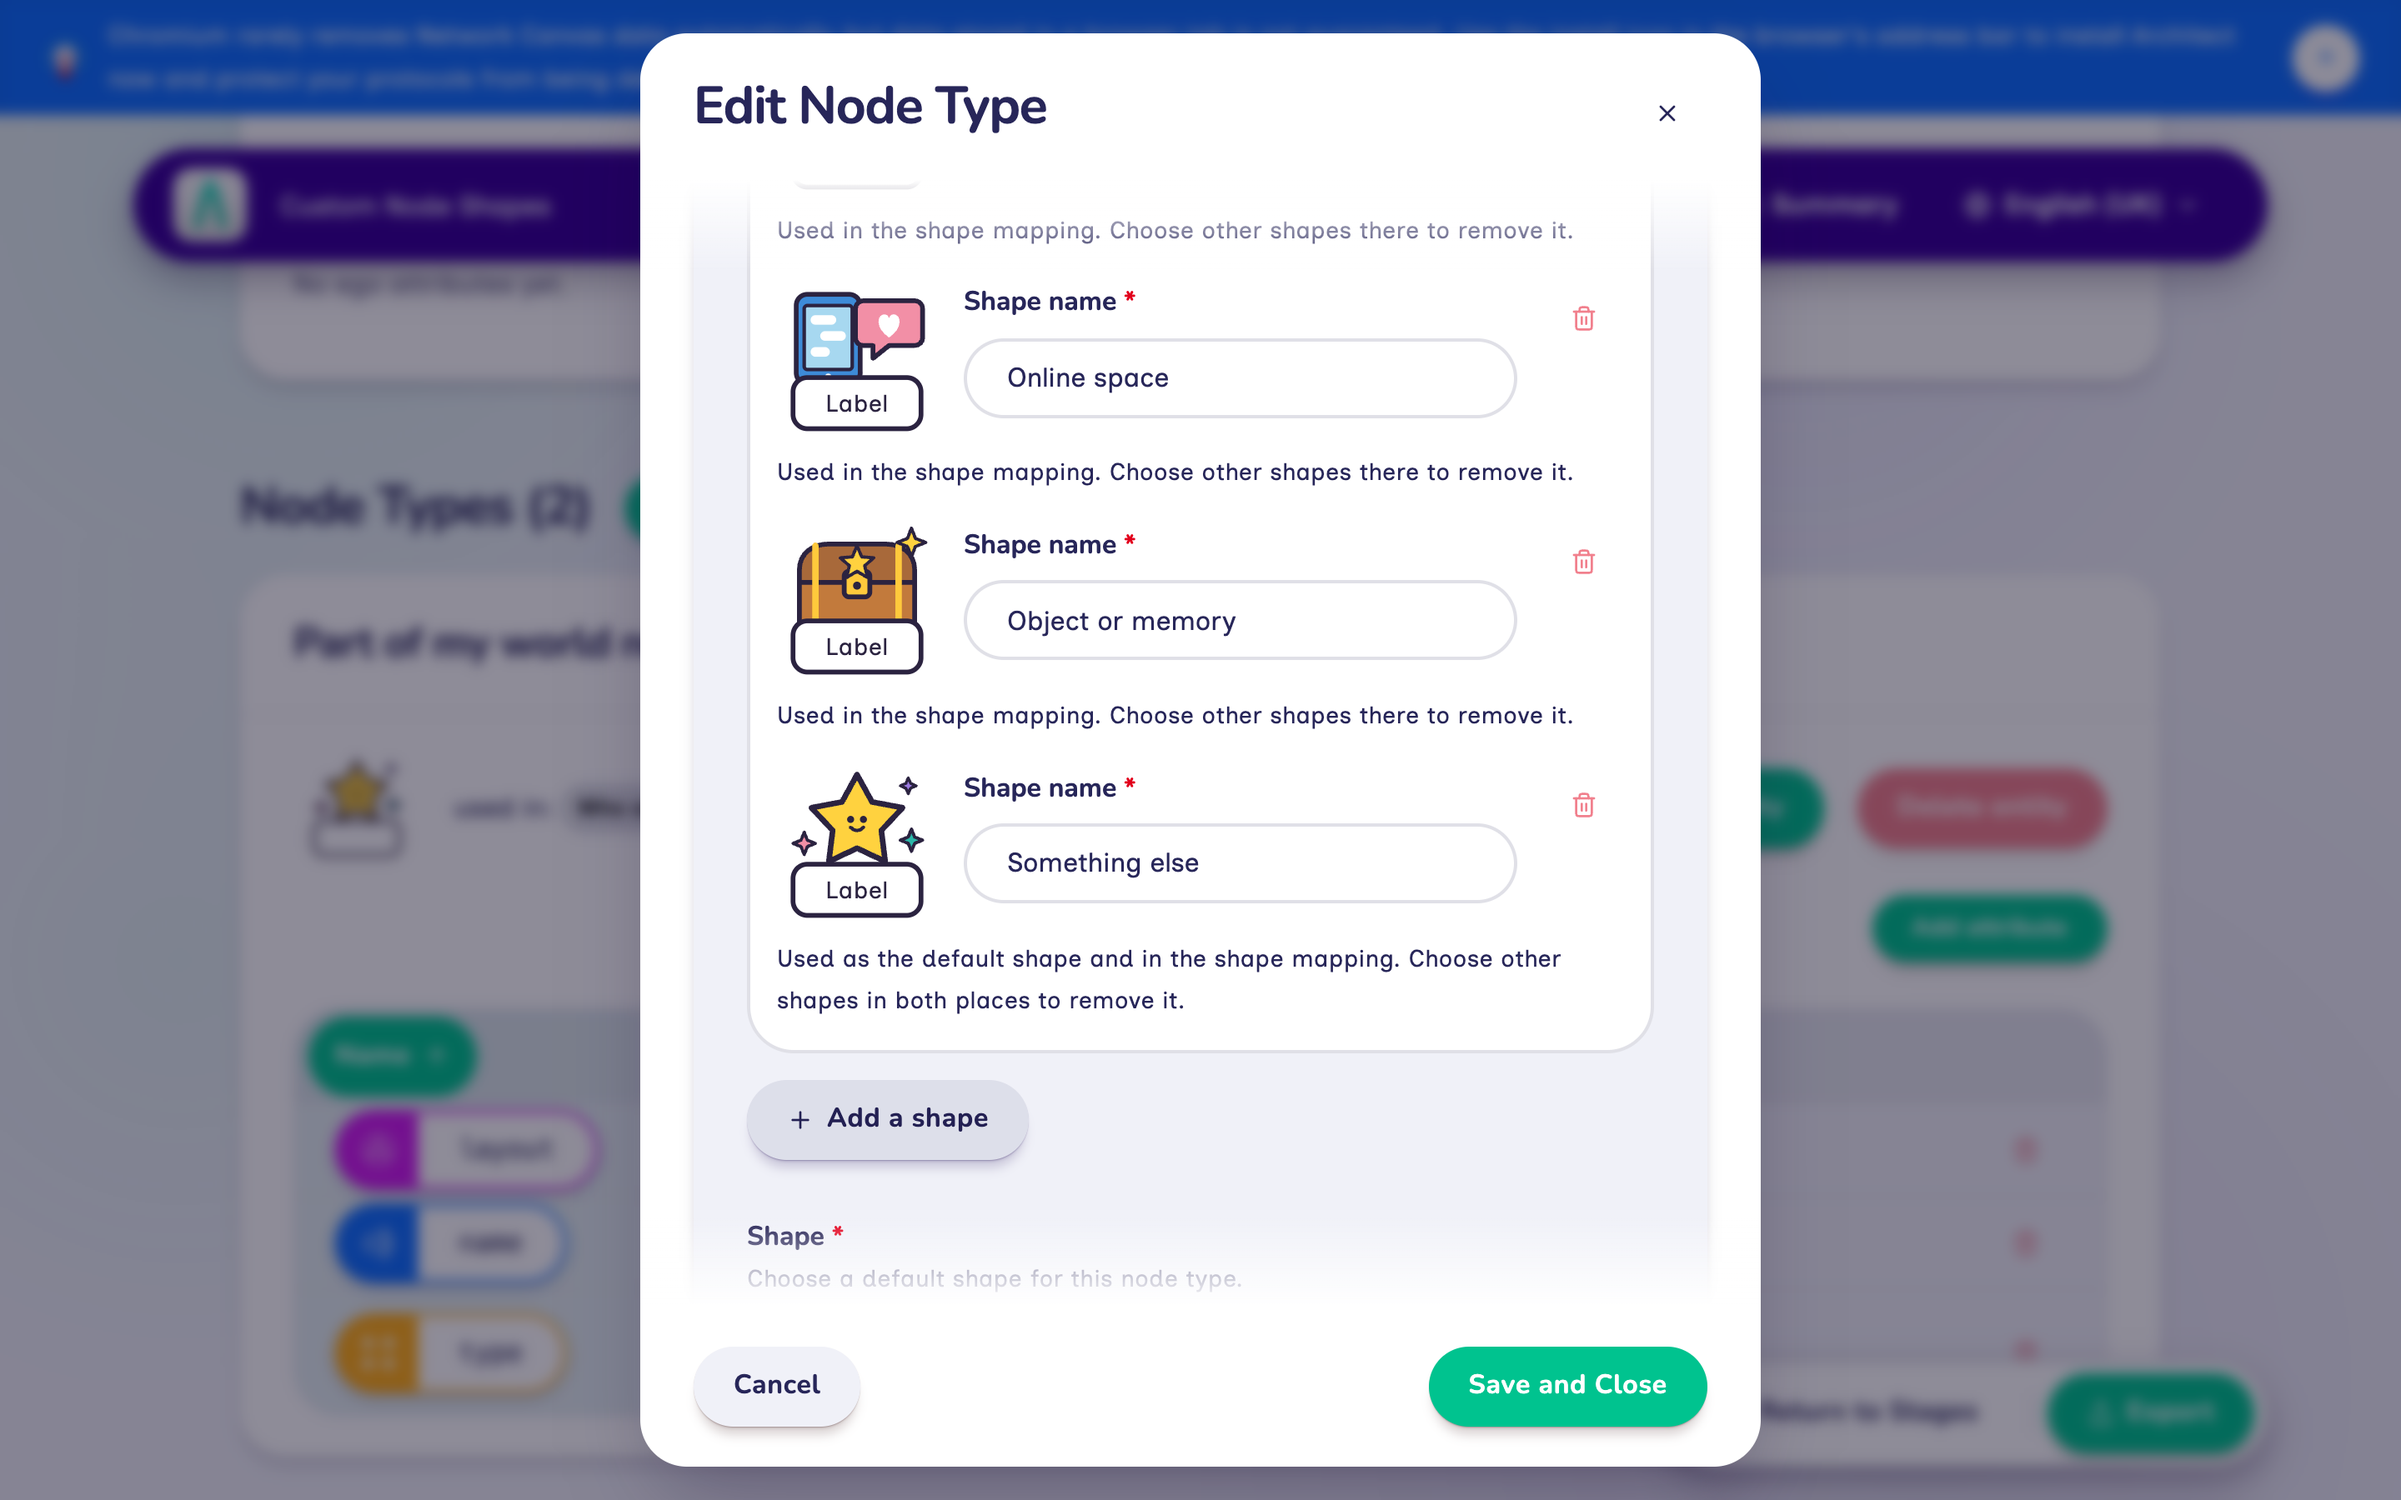
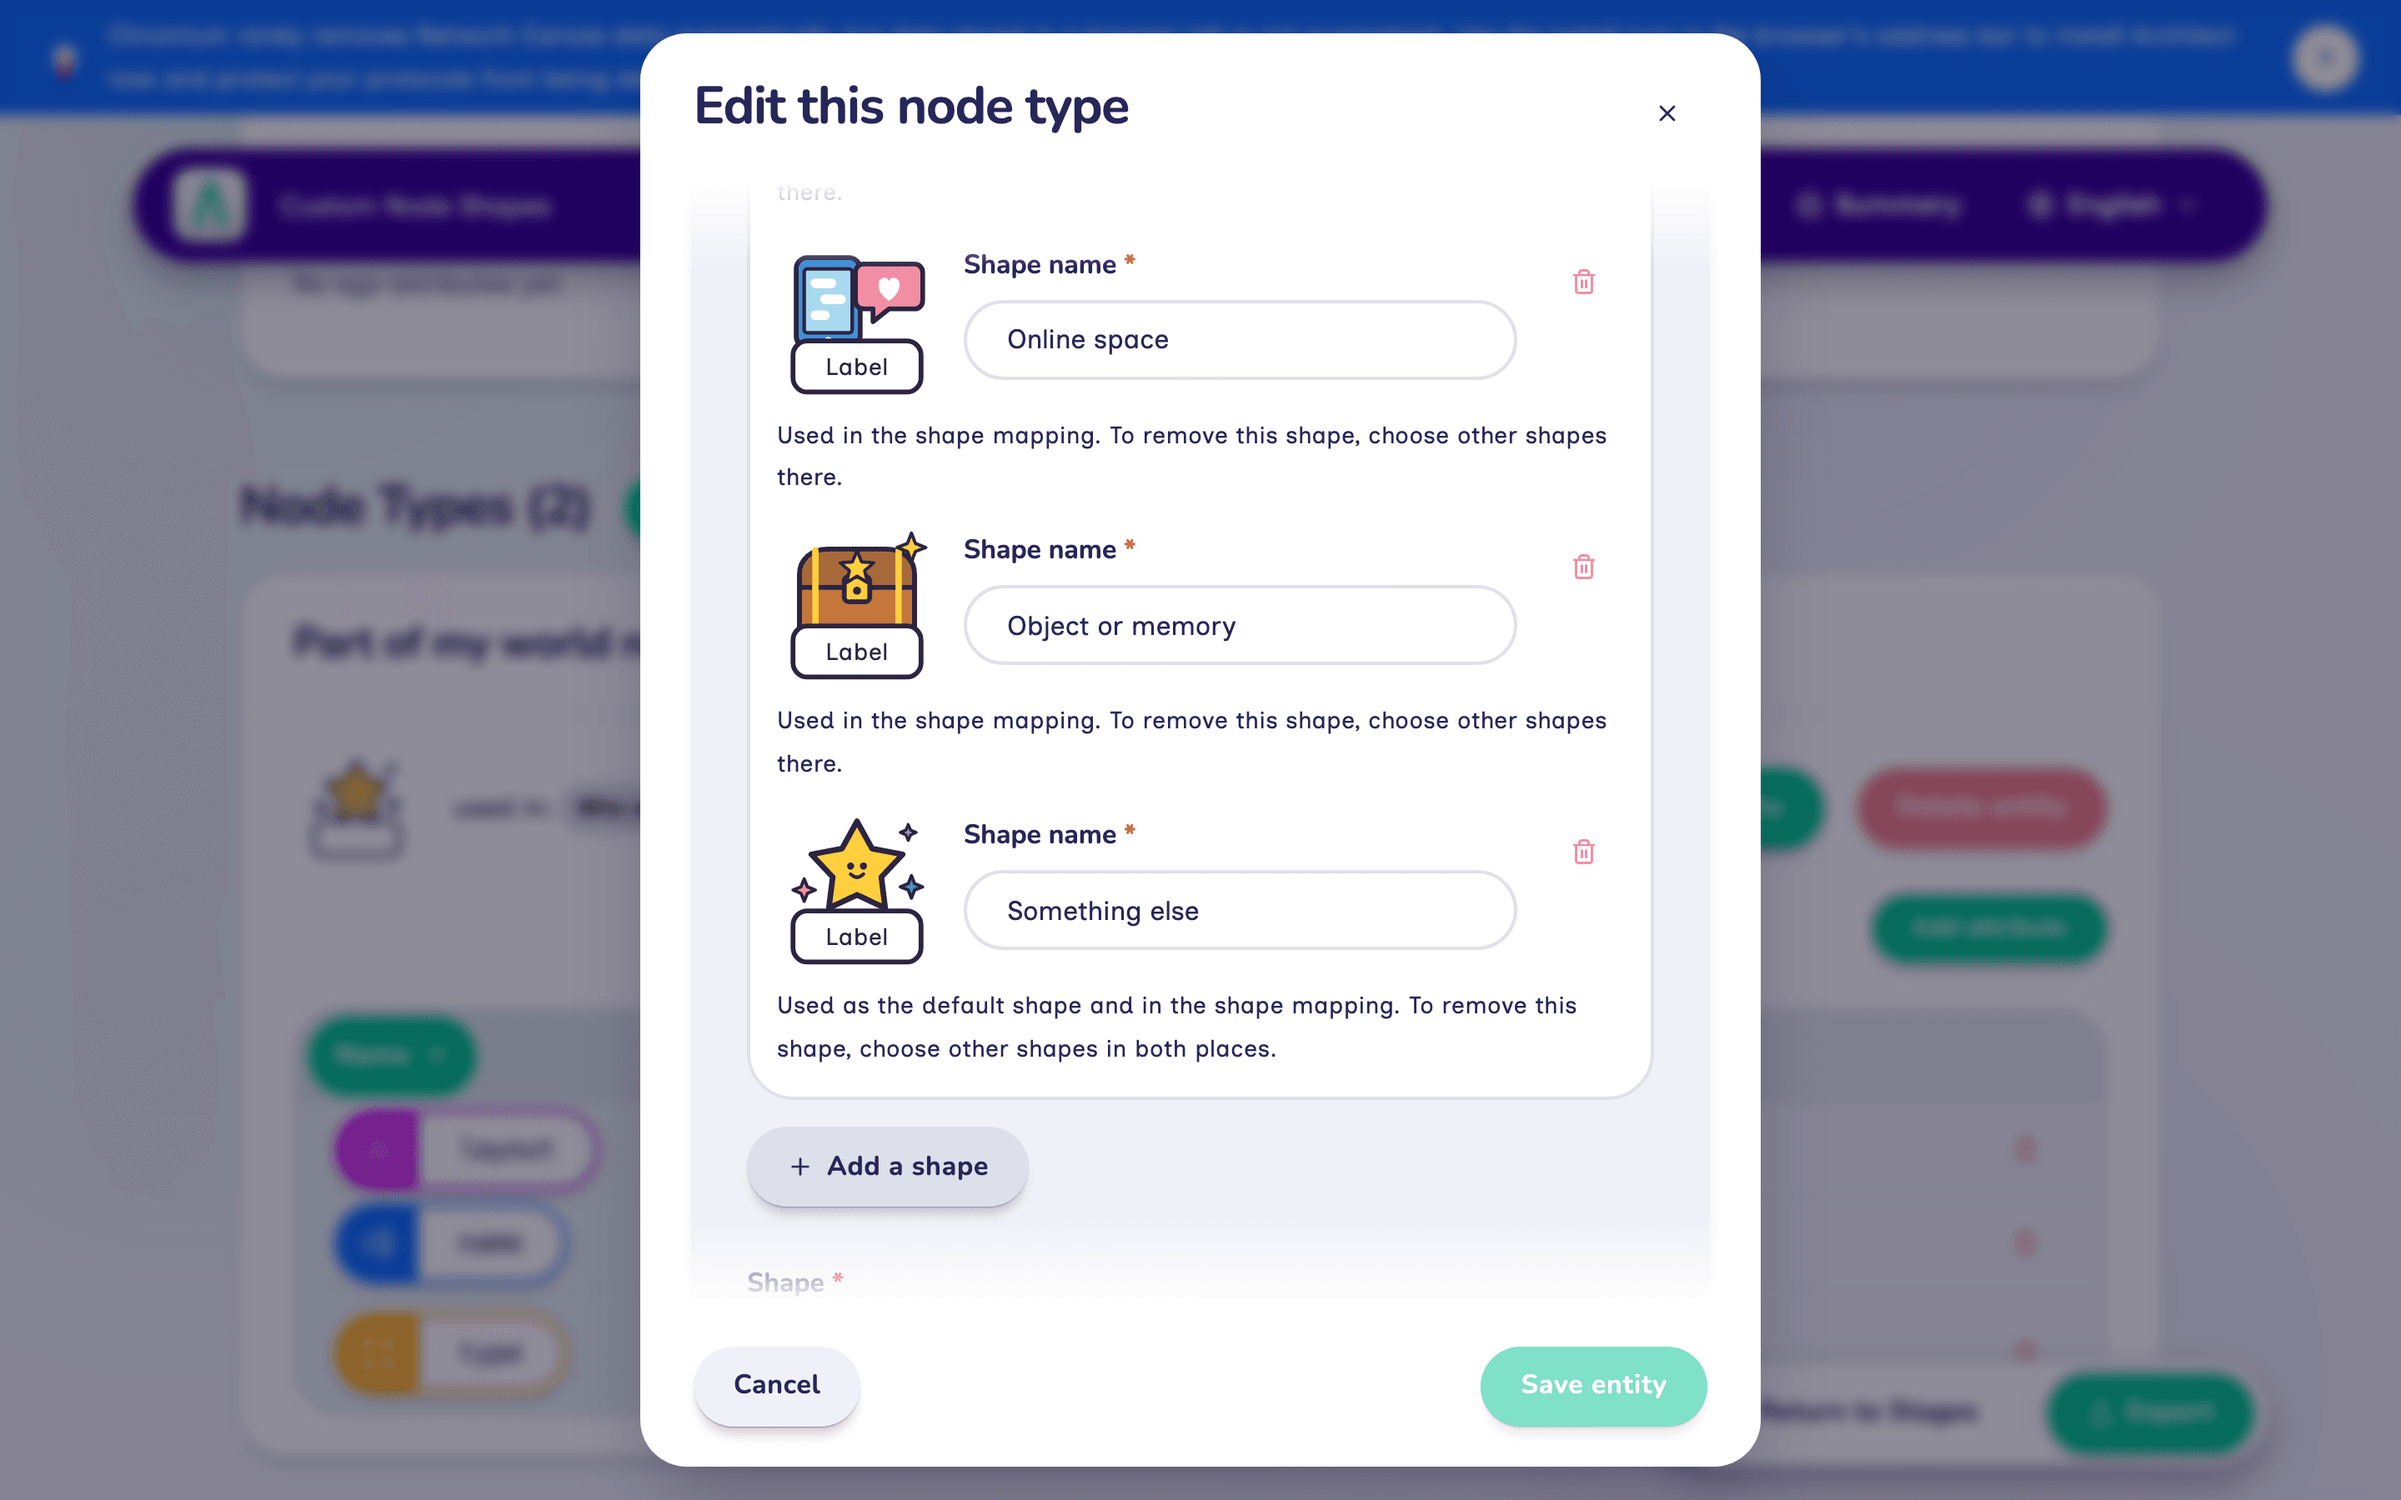
docs: recapture the node type editor screenshots from the shared editor

diff --git a/apps/documentation/SCREENSHOTS_TO_REGENERATE.md b/apps/documentation/SCREENSHOTS_TO_REGENERATE.md
@@ -311,15 +311,13 @@ Sources: `docs/collect-data/fresco/guide.en.mdx` and `docs/collect-data/fresco/g
 ## Custom node shapes (schema 9)
 
 The Node appearance section of the node type editor gained a **Custom
-shapes** area, so the two captures of that dialog no longer show all of it.
-The images in `/assets/img/custom-node-shapes/` are new and current.
+shapes** area, and the Codebook page now opens the same node type editor as
+the stage editors (titled **Edit this node type**, with a **Save entity**
+button). The captures of that dialog were retaken to show both. The other
+images in `/assets/img/custom-node-shapes/` are new and current.
 
-The Codebook page now opens the same node type editor as the stage editors
-(titled **Edit this node type**, with a **Save entity** button), so
-`edit-node-type-web.png` and `custom-node-shapes/architect-custom-shapes.png`
-should be captured from that dialog.
-
-| Image                                                                   | Status         |
-| ----------------------------------------------------------------------- | -------------- |
-| `/assets/img/architect/edit-node-type-web.png` (Codebook)               | ⏳ Outstanding |
-| `/assets/img/architect-guide/node-type-shape.png` (Building a protocol) | ⏳ Outstanding |
+| Image                                                                   | Status        |
+| ----------------------------------------------------------------------- | ------------- |
+| `/assets/img/architect/edit-node-type-web.png` (Codebook)               | ✅ Recaptured |
+| `/assets/img/architect-guide/node-type-shape.png` (Building a protocol) | ✅ Recaptured |
+| `/assets/img/custom-node-shapes/architect-custom-shapes.png`            | ✅ Recaptured |

diff --git a/.changeset/docs-node-type-editor-screenshots.md b/.changeset/docs-node-type-editor-screenshots.md
@@ -1,0 +1,7 @@
+---
+'@codaco/documentation': patch
+---
+
+The screenshots of the node type editor in the Codebook article, the Building a
+Protocol tutorial and the Custom Node Shapes article show the editor as it now
+appears in Architect, with its Custom shapes area and Save entity button.
